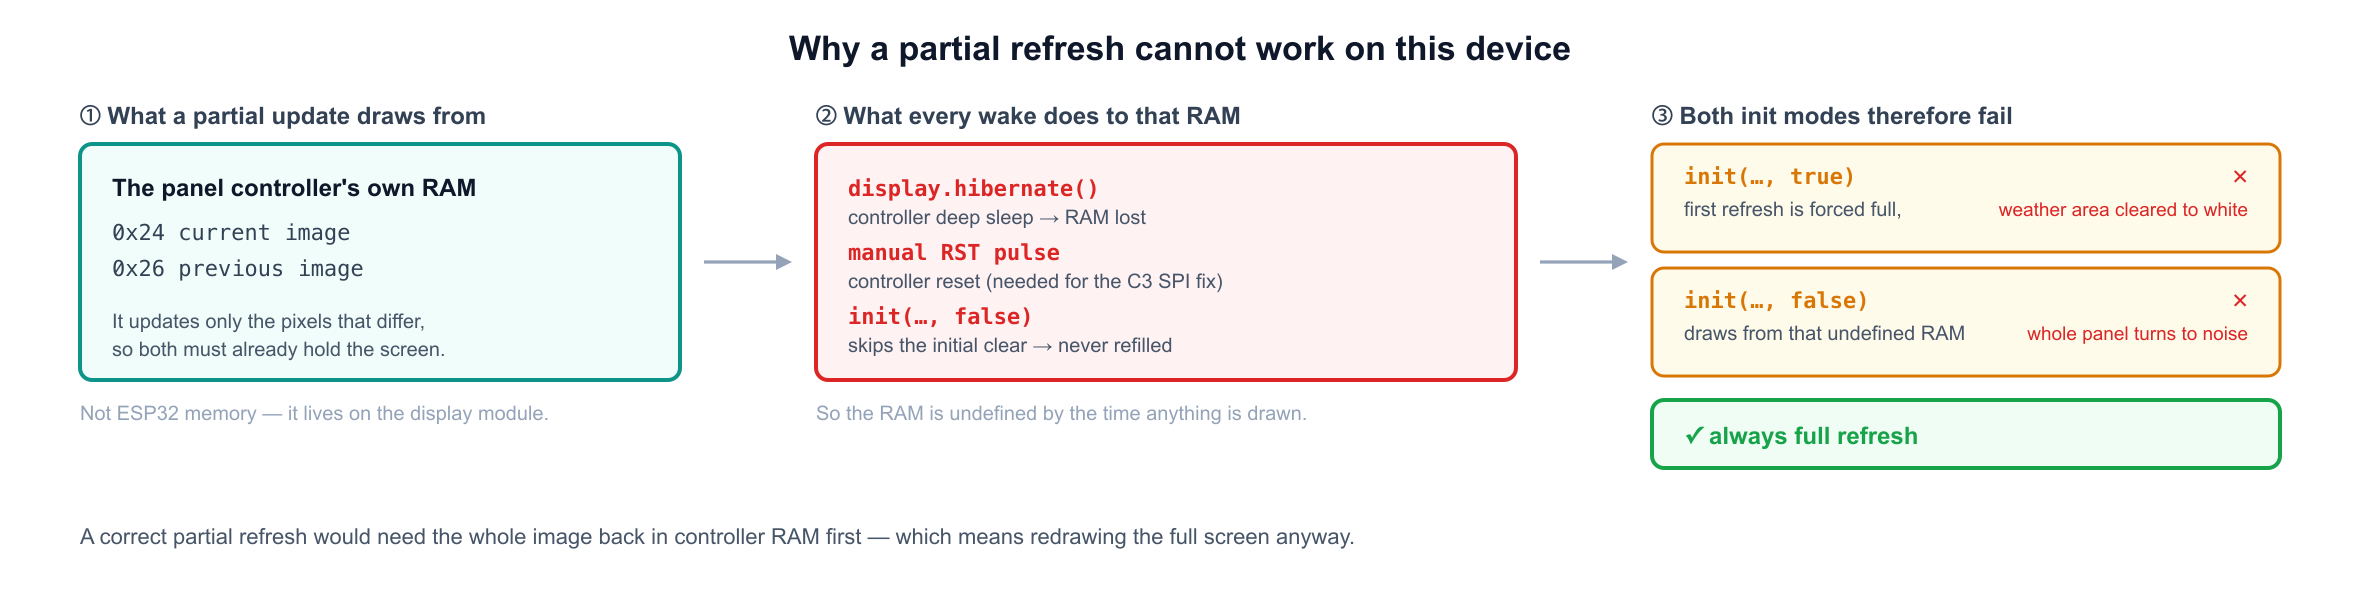
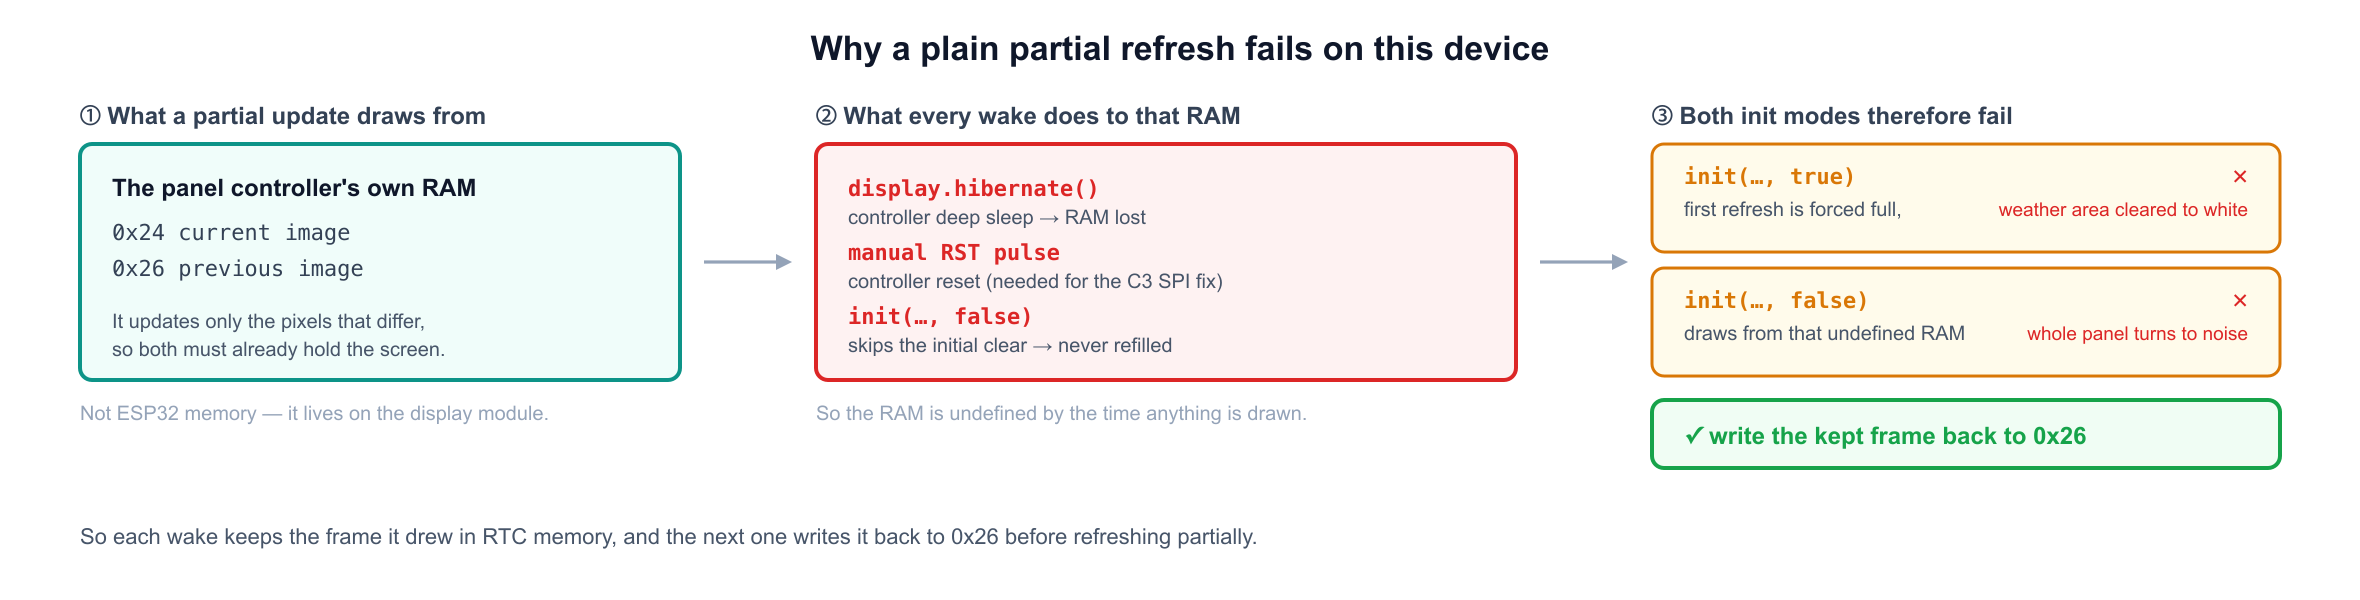
Write up how the partial refresh survives deep sleep
The refresh note said every wake had to refresh fully. It now keeps the
first attempt and its noise photo as the reason, then the steps that
write the kept frame back and when a full refresh still runs. The
diagram's conclusion and both READMEs' doc list follow.

Changed region(s): [[0.0309, 0.87, 0.5877, 0.93], [0.3093, 0.06, 0.6805, 0.12], [0.7114, 0.69, 0.897, 0.75]]

diff --git a/docs/ko/persistence-and-refresh.md b/docs/ko/persistence-and-refresh.md
@@ -3,8 +3,8 @@
 # 저장과 화면 갱신
 
 딥슬립 웨이크 = 완전 리셋. `setup()`부터 다시 시작하고 일반 RAM은 사라지며, 패널 컨트롤러도 리셋된
-상태로 올라옴. 여기서 두 가지가 결정됨 — 마지막 성공 응답은 **RTC 메모리가 아니라 NVS(플래시)**에
-두고, 화면은 **부분 갱신이 아니라 항상 전체 갱신**으로 다시 그림.
+상태로 올라옴. 여기서 두 가지가 결정됨. 마지막 성공 응답은 **RTC 메모리가 아니라 NVS(플래시)**에
+두고, 화면은 wake마다 RTC 메모리에 보관한 직전 화면 위에 **부분 갱신**으로 다시 그림.
 
 두 결정의 전제가 되는 요구사항: Wi-Fi나 fetch가 실패해도 화면엔 마지막 날씨 + **이번 웨이크**의 상태
 (`offline`, 신호 게이지)가 떠 있어야 함.
@@ -16,13 +16,13 @@
 
 ---
 
-## 1. 상태줄도 전체 갱신으로 그림
+## 1. 부분 갱신에는 패널 RAM에 직전 화면이 다시 있어야 함
 
 부분 갱신은 **차분(differential)** 방식 — 직전 이미지와 다른 픽셀만 구동하므로, 현재 화면이 패널
 컨트롤러 자체 RAM에 이미 들어 있어야 함. 이 RAM은 **ESP32 메모리가 아니라** 디스플레이 모듈 위에
 있음. 매 웨이크가 그 RAM을 미정의 상태로 만들기 때문에 `init()`의 두 모드가 모두 깨짐.
 
-![3단 구성: 부분 갱신이 참조하는 것(패널 컨트롤러 자체 RAM, 0x24 현재 / 0x26 직전) → 매 웨이크가 그 RAM에 하는 일(display.hibernate(), 수동 RST 펄스, init(…, false)) → 그래서 두 init 모드가 각각 실패하는 방식(init(…, true)은 전체 갱신을 강제해 날씨 영역이 백색화, init(…, false)는 미정의 RAM으로 구동해 패널 전체가 노이즈) → 항상 전체 갱신](https://raw.githubusercontent.com/seung-gu/eink-weather-display/main/docs/images/epd-partial-fail.png)
+![3단 구성: 부분 갱신이 참조하는 것(패널 컨트롤러 자체 RAM, 0x24 현재 / 0x26 직전) → 매 웨이크가 그 RAM에 하는 일(display.hibernate(), 수동 RST 펄스, init(…, false)) → 그래서 두 init 모드가 각각 실패하는 방식(init(…, true)은 전체 갱신을 강제해 날씨 영역이 백색화, init(…, false)는 미정의 RAM으로 구동해 패널 전체가 노이즈) → 보관한 직전 화면을 0x26에 다시 써 넣음](https://raw.githubusercontent.com/seung-gu/eink-weather-display/main/docs/images/epd-partial-fail.png)
 
 설치된 GxEPD2 소스가 두 모드를 그대로 기술함:
 
@@ -54,7 +54,29 @@ if (_initial_refresh) return refresh(false);   // initial update needs be full u
 | 부분 갱신 | 0.5초 | 컨트롤러 RAM에 현재 이미지 전체가 이미 들어 있을 것 |
 | **전체 갱신** | 2.6초 | 없음 |
 
-매 웨이크마다 컨트롤러가 리셋되는 기기는 그 전제를 만족시킬 수 없음 → **항상 전체 갱신**.
+매 웨이크마다 컨트롤러가 리셋되는 기기는 그 전제를 직접 채워야 함.
+
+### 직전 화면 다시 써 넣기
+
+wake마다 GxEPD2 버퍼 대신 ESP32 메모리의 canvas에 그림(GxEPD2 버퍼는 `private`). 그린 화면은 RTC
+메모리(5000바이트)에 복사해 두고, 다음 wake가 그 사본에서 시작함:
+
+| 단계 | 호출 |
+|---|---|
+| GxEPD2의 첫 갱신 전체 강제 없이 시작 | `display.init(115200, false)` |
+| 보관한 직전 화면(= 지금 화면에 보이는 것)을 0x26에 | `epd2.writeImageToPrevious()` |
+| 새 화면을 0x24에 | `epd2.writeImage()` |
+| 화면 전체를 부분 갱신 | `epd2.refresh(0, 0, 200, 200)` |
+
+시작할 직전 화면이 없을 때와 12시간마다는 여전히 전체 갱신:
+
+| 전체 갱신 | 이유 |
+|---|---|
+| RESET, 전원 차단, 업데이트 뒤 | RTC 메모리가 비워져 보관한 화면이 없음 |
+| 메시지나 QR 화면 뒤 | 날씨 화면만 기준으로 보관 |
+| 12시간마다 (30분 간격으로 24번째) | 보험. 테스트에서 도시를 바꿔 모든 값과 아이콘이 바뀌어도 잔상 없었음 |
+
+테스트에서 부분 갱신 wake는 1.9–2.5초, 전체 갱신 wake는 약 4.6초.
 
 ---
 
@@ -118,7 +140,7 @@ if (fetched.length()) prefs.putString("last", fetched);
 String w = prefs.getString("last", "");
 prefs.end();
 
-displayBegin();                                // 항상 다시 그림 (전체 갱신)
+displayBegin();                                // 항상 다시 그림 (부분 또는 전체, §1)
 displayWeather(w, wifi.ok ? wifi.ms : 0,       // 0 ms  -> "offline"
                   wifi.ok ? wifi.rssi : 0);    // 0 dBm -> 빈 게이지
 ```

diff --git a/docs/en/persistence-and-refresh.md b/docs/en/persistence-and-refresh.md
@@ -3,9 +3,9 @@
 # Persistence & refresh
 
 A deep-sleep wake is a full reset: execution restarts at `setup()` with ordinary RAM gone, and the
-panel controller comes up reset as well. Two decisions follow — the last good response is kept in
-**NVS (flash)**, not RTC memory, and the screen is always redrawn with a **full refresh**, never a
-partial one.
+panel controller comes up reset as well. Two decisions follow: the last good response is kept in
+**NVS (flash)**, not RTC memory, and the screen is redrawn with a **partial refresh** over the last
+frame, which each wake keeps in RTC memory for the next.
 
 The requirement behind both: when Wi-Fi or the fetch fails, the screen still shows the last known
 weather plus the status of the *current* wake (`offline`, signal gauge).
@@ -17,13 +17,13 @@ Related: [Storing state in NVS](nvs-internals.md).
 
 ---
 
-## 1. The status line is redrawn by full refresh
+## 1. A partial refresh needs the last frame back in the panel's RAM
 
 A partial update is *differential*: it drives only the pixels that differ from the previous image,
 so the current screen must already sit in the panel controller's own RAM — on the display module,
 not the ESP32's memory. Every wake leaves that RAM undefined, which breaks both `init()` modes.
 
-![Three panels: a partial update draws from the panel controller's own RAM (0x24 current, 0x26 previous); every wake destroys that RAM through display.hibernate(), the manual RST pulse and init(…, false); so init(…, true) forces a full refresh and clears the weather area to white, while init(…, false) draws from undefined RAM and fills the whole panel with noise — always full refresh](../images/epd-partial-fail.png)
+![Three panels: a partial update draws from the panel controller's own RAM (0x24 current, 0x26 previous); every wake destroys that RAM through display.hibernate(), the manual RST pulse and init(…, false); so init(…, true) forces a full refresh and clears the weather area to white, while init(…, false) draws from undefined RAM and fills the whole panel with noise; so the kept frame is written back to 0x26](../images/epd-partial-fail.png)
 
 The installed GxEPD2 states both modes in its source:
 
@@ -56,8 +56,29 @@ Observed on this panel — `setPartialWindow()` over the bottom ~22 px after `in
 | Partial | 0.5 s | the whole current image already in controller RAM |
 | **Full** | 2.6 s | none |
 
-A device that resets the controller on every wake cannot meet that precondition:
-**always full refresh**.
+A device that resets the controller on every wake has to meet that precondition itself.
+
+### Writing the last frame back
+
+Each wake draws on a canvas in ESP32 memory, because GxEPD2 keeps its own buffer private, and keeps
+a copy of the frame in RTC memory (5000 bytes). The next wake starts from that copy:
+
+| Step | Call |
+|---|---|
+| Start without GxEPD2's forced first full refresh | `display.init(115200, false)` |
+| The kept frame, which is what the screen shows, into 0x26 | `epd2.writeImageToPrevious()` |
+| The new frame into 0x24 | `epd2.writeImage()` |
+| Partial refresh of the whole screen | `epd2.refresh(0, 0, 200, 200)` |
+
+A full refresh still runs when there is no frame to start from, and every 12 hours:
+
+| Full refresh | Why |
+|---|---|
+| After a reset, a power cut or an update | RTC memory is emptied, so there is no kept frame |
+| After a message or a QR | Only a weather screen is kept as a base |
+| Every 12 hours (24 refreshes at 30 minutes) | Insurance. Testing showed no ghosting, with the city moved and every value and the icon changing |
+
+Wakes with a partial refresh took 1.9–2.5 s in testing, against about 4.6 s with a full refresh.
 
 ---
 
@@ -122,7 +143,7 @@ if (fetched.length()) prefs.putString("last", fetched);
 String w = prefs.getString("last", "");
 prefs.end();
 
-displayBegin();                                     // always redraw, full refresh
+displayBegin();                                     // always redraw, partial or full (§1)
 displayWeather(w, wifi.ok ? wifi.ms : 0,            // 0 ms  -> "offline"
                   wifi.ok ? wifi.rssi : 0);         // 0 dBm -> empty gauge
 ```

diff --git a/README.md b/README.md
@@ -80,7 +80,7 @@ Changing networks and upload trouble: [Setup and registration](docs/en/setup.md)
 | [Setup and registration](docs/en/setup.md) | Changing Wi-Fi, how registration works, uploading in download mode |
 | [Firmware layout and updates](docs/en/firmware.md) | Code layout, one wake in detail, update rules |
 | [Registering a board over QR](docs/en/registration.md) | Token and claim code, what each server answer does, the QR screen |
-| [Persistence & refresh](docs/en/persistence-and-refresh.md) | Why the last weather lives in NVS, why a partial refresh doesn't work |
+| [Persistence & refresh](docs/en/persistence-and-refresh.md) | Why the last weather lives in NVS, how a partial refresh survives deep sleep |
 | [Storing state in NVS](docs/en/nvs-internals.md) | How NVS is laid out, and the `Preferences` API |
 | [JTAG debugging](docs/en/jtag-debug.md) | Step debugging over the built-in USB-JTAG |
 | [e-Paper power gating](docs/en/epd-power-gating.md) | Switching the module's VCC from a GPIO (parked) |

diff --git a/docs/ko/README.md b/docs/ko/README.md
@@ -78,7 +78,7 @@ Wi-Fi 재설정과 업로드 문제는 [설정과 등록](setup.md) 참고.
 | [설정과 등록](setup.md) | Wi-Fi 재설정, 보드 등록 과정, 다운로드 모드 업로드 |
 | [펌웨어 구조와 업데이트](firmware.md) | 코드 구조, 한 번 깨어날 때의 상세 흐름, 업데이트 규칙 |
 | [QR로 보드 등록](registration.md) | 토큰과 등록 코드, 서버 응답별 동작, QR 화면 |
-| [저장과 화면 갱신](persistence-and-refresh.md) | 마지막 날씨를 NVS에 두는 이유, 부분 갱신이 안 되는 이유 |
+| [저장과 화면 갱신](persistence-and-refresh.md) | 마지막 날씨를 NVS에 두는 이유, 딥슬립을 넘어 부분 갱신하는 방법 |
 | [NVS에 상태 저장하기](nvs-internals.md) | NVS 구조와 `Preferences` API |
 | [JTAG 디버깅](jtag-debug.md) | 내장 USB-JTAG 스텝 디버깅 |
 | [GPIO로 e-Paper 모듈 전원 켜고 끄기](epd-power-gating.md) | 모듈 VCC를 GPIO로 끊는 회로 (보류) |
